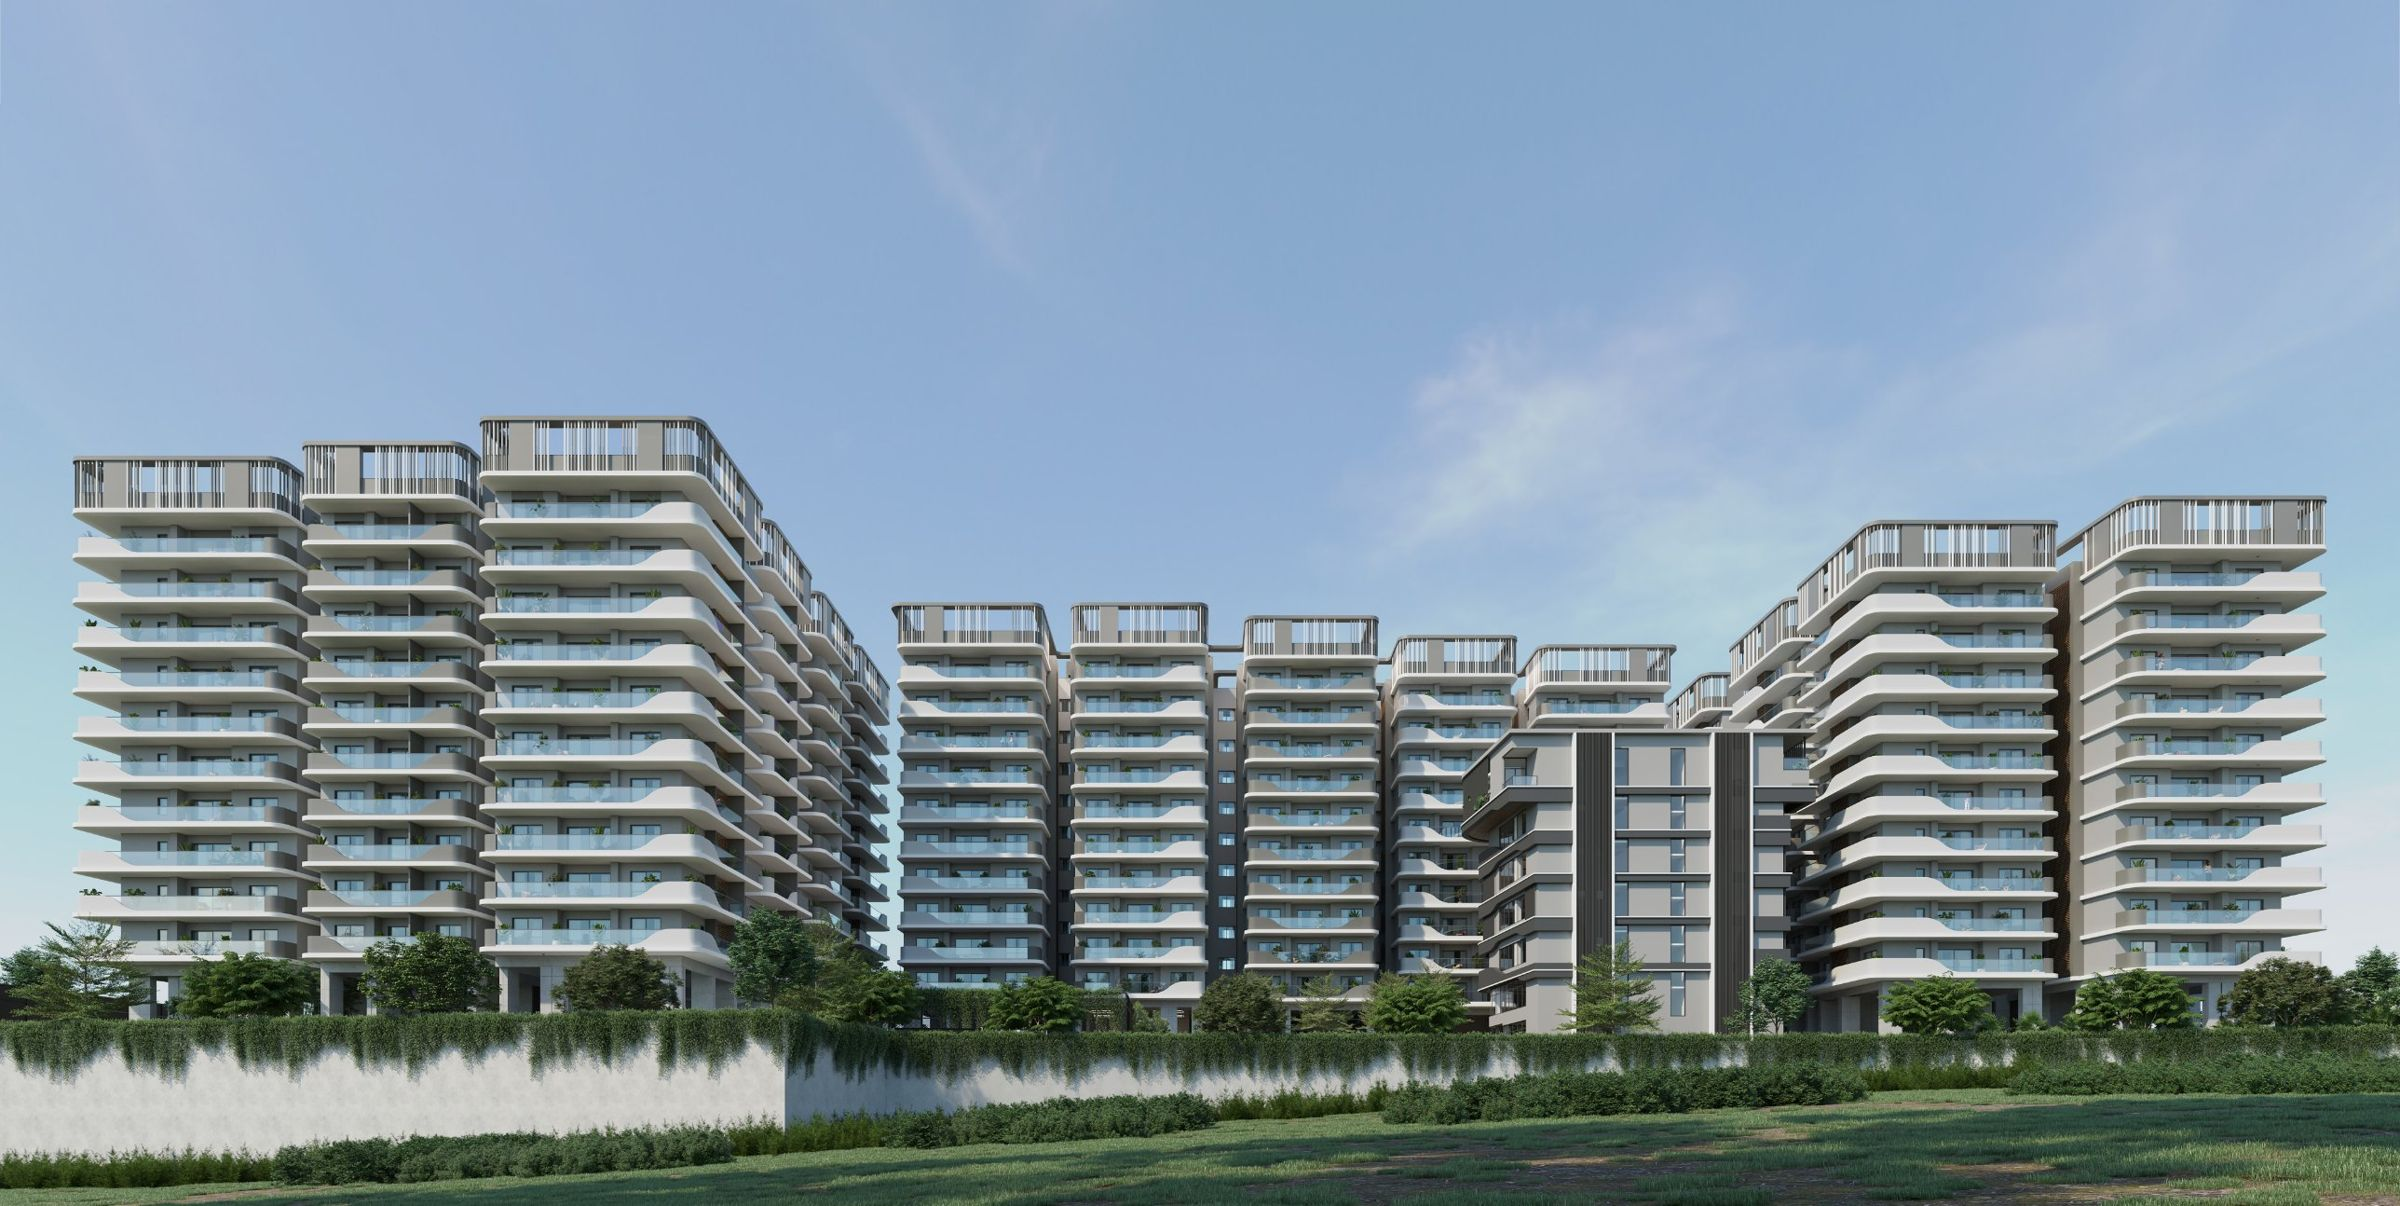
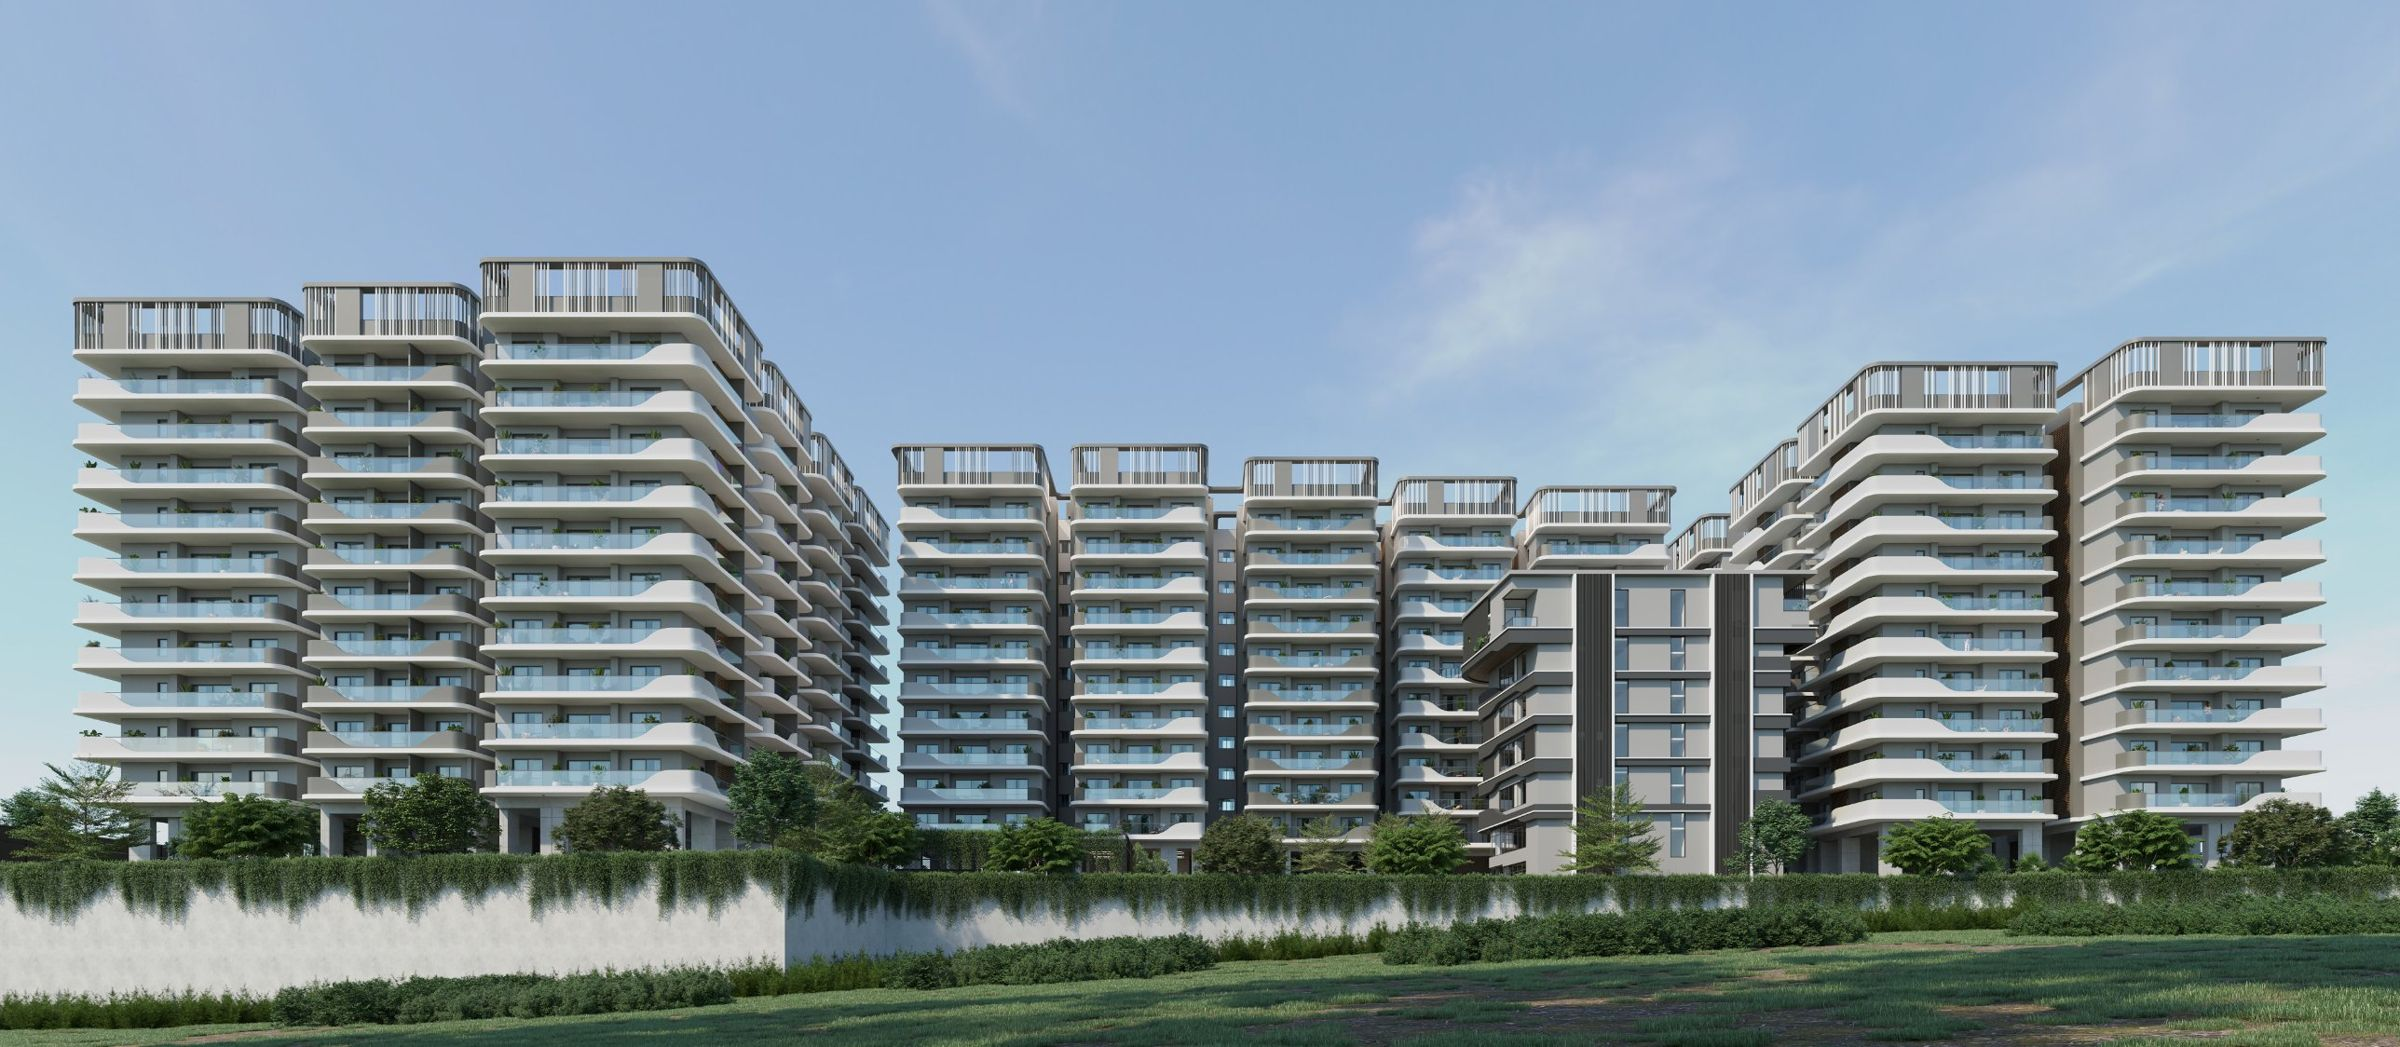
Scroll-driven day-to-night hero with aligned renders, reveal animations, green + sky palette
Claude-Session: https://claude.ai/code/session_01NNj4cqysaypGWC4rhazLur

diff --git a/index.html b/index.html
@@ -341,6 +341,27 @@ footer{padding:40px 0;color:var(--muted);font-size:13px;border-top:1px solid var
 .cbtn{display:inline-flex;align-items:center;gap:8px;padding:13px 22px;border-radius:999px;font-weight:600;font-size:15px;text-decoration:none;border:1px solid rgba(255,255,255,.6);color:#fff;background:rgba(255,255,255,.08);backdrop-filter:blur(6px);cursor:pointer}
 .cbtn.pri{background:#F2F5F3;color:var(--ink);border-color:#F2F5F3}
 .cbtn:hover{transform:translateY(-1px)}
+.lscroll{position:relative;height:260vh}
+.lscroll .lhero{position:sticky;top:64px;height:calc(100vh - 64px);max-height:none}
+.lhero .layer{position:absolute;inset:-4% 0;will-change:transform}
+.lhero .layer img{position:absolute;inset:0;width:100%;height:100%;object-fit:cover;object-position:center 78%;transition:none}
+.lhero .layer img.night{opacity:0}
+.lhero .glow{position:absolute;inset:0;background:radial-gradient(60% 35% at 50% 72%,rgba(255,196,120,.28),rgba(255,196,120,0) 70%);opacity:0;mix-blend-mode:screen;pointer-events:none}
+.lhero .stars{position:absolute;inset:0 0 55% 0;opacity:0;pointer-events:none;background-image:radial-gradient(1.2px 1.2px at 12% 18%,#fff 60%,transparent),radial-gradient(1px 1px at 28% 8%,#fff 60%,transparent),radial-gradient(1.4px 1.4px at 44% 22%,#fff 60%,transparent),radial-gradient(1px 1px at 63% 12%,#fff 60%,transparent),radial-gradient(1.3px 1.3px at 78% 26%,#fff 60%,transparent),radial-gradient(1px 1px at 90% 9%,#fff 60%,transparent),radial-gradient(1px 1px at 6% 34%,#fff 60%,transparent),radial-gradient(1.2px 1.2px at 52% 4%,#fff 60%,transparent),radial-gradient(1px 1px at 35% 36%,#fff 60%,transparent),radial-gradient(1.1px 1.1px at 70% 40%,#fff 60%,transparent)}
+.lhero .eve{position:absolute;left:50%;bottom:13vh;width:min(820px,92%);margin-left:max(-410px,-46%);text-align:center;opacity:0;transform:translateY(30px);pointer-events:none;padding:28px 24px;border-radius:24px;background:radial-gradient(closest-side,rgba(10,20,26,.62),rgba(10,20,26,0))}
+.lhero .eve h2{color:#fff;font-size:clamp(34px,4.6vw,68px);text-shadow:0 2px 30px rgba(0,0,0,.5)}
+.lhero .eve h2 em{color:var(--gold);font-style:italic}
+.lhero .eve p{margin:12px auto 0;color:#E6EEEA;font-size:18px;max-width:560px}
+.tclock{position:absolute;left:32px;bottom:28px;z-index:3;display:flex;align-items:center;gap:10px;background:rgba(15,28,23,.45);backdrop-filter:blur(8px);border:1px solid rgba(255,255,255,.25);border-radius:999px;padding:7px 16px 7px 8px;color:#fff;font-size:14px;font-weight:600;font-variant-numeric:tabular-nums}
+.tclock .orb{width:24px;height:24px;border-radius:50%;background:#FFD27A;box-shadow:0 0 12px #FFD27A;position:relative;overflow:hidden}
+.tclock .orb i{position:absolute;inset:0;border-radius:50%;background:#1C2B28;transform:translateX(100%)}
+.shint{position:absolute;left:50%;bottom:28px;transform:translateX(-50%);color:#fff;font-size:12px;letter-spacing:2px;text-transform:uppercase;display:flex;flex-direction:column;align-items:center;gap:6px;opacity:.9;pointer-events:none}
+.shint i{width:2px;height:28px;background:linear-gradient(#fff,transparent);animation:sh 1.6s ease-in-out infinite}
+@keyframes sh{0%{transform:scaleY(0);transform-origin:top}50%{transform:scaleY(1);transform-origin:top}51%{transform-origin:bottom}100%{transform:scaleY(0);transform-origin:bottom}}
+.rv{opacity:0;transform:translateY(36px);transition:opacity .9s cubic-bezier(.2,.7,.2,1),transform .9s cubic-bezier(.2,.7,.2,1)}
+.rv.in{opacity:1;transform:none}
+@media (prefers-reduced-motion:reduce){.lscroll{height:auto}.lscroll .lhero{position:relative}.rv{opacity:1;transform:none;transition:none}.shint i{animation:none}}
+@media (max-width:620px){.lscroll{height:200vh}.tclock{left:16px;bottom:16px}.shint{display:none}}
 .dn{position:absolute;right:32px;bottom:28px;z-index:3;display:flex;background:rgba(15,28,23,.45);backdrop-filter:blur(8px);border-radius:999px;padding:4px;border:1px solid rgba(255,255,255,.25)}
 .dn button{border:none;background:none;color:#E6EEEA;padding:7px 16px;border-radius:999px;font-size:13px;font-weight:600}
 .dn button.on{background:#F2F5F3;color:var(--ink)}
@@ -911,44 +932,66 @@ function keyRoute(k){const m=k.match(/^[tmr]-t(\d{4})-(\d)$/);if(m)return `#f${m
 /* ---------- landing ---------- */
 let LF='all';
 function landStyles(){let L=[];D.sizes.forEach(z=>z.styles.forEach(t=>L.push({z,t})));if(LF!=='all')L=L.filter(o=>o.z.s===LF);
-  return L.map(({z,t})=>`<a class="lst" href="#f${z.s}-s${t.n}"><img loading="lazy" src="${im(t.hero)}" alt="${esc(t.name)}"><span class="bd ${t.exist?'ex':''}">${t.exist?'Existing':'New theme'}</span><div class="ov"><small>${z.lab} sq ft · Type-${t.n} · ${t.facing}</small><b>${esc(t.name)}</b><div class="pp">${t.pal.map(p=>`<i style="background:${p[1]}"></i>`).join('')}</div></div></a>`).join('')}
+  return L.map(({z,t},i)=>`<a class="lst rv" style="transition-delay:${(i%4)*.07}s" href="#f${z.s}-s${t.n}"><img loading="lazy" src="${im(t.hero)}" alt="${esc(t.name)}"><span class="bd ${t.exist?'ex':''}">${t.exist?'Existing':'New theme'}</span><div class="ov"><small>${z.lab} sq ft · Type-${t.n} · ${t.facing}</small><b>${esc(t.name)}</b><div class="pp">${t.pal.map(p=>`<i style="background:${p[1]}"></i>`).join('')}</div></div></a>`).join('')}
 function vLanding(){
   const all=progress();
-  return `<section class="lhero" id="lhero"><img class="day" src="${im('hero/day')}" alt="BREEZE in the Courtyard, day view"><img class="night" src="${im('hero/night')}" alt="BREEZE in the Courtyard, night view"><div class="shade"></div>
+  return `<div class="lscroll" id="lscroll"><section class="lhero" id="lhero"><div class="layer" id="hlayer"><img class="day" src="${im('hero/day')}" alt="BREEZE in the Courtyard, day view"><img class="night" id="hnight" src="${im('hero/night')}" alt="BREEZE in the Courtyard, night view"></div><div class="stars" id="hstars"></div><div class="glow" id="hglow"></div><div class="shade" id="hshade"></div>
+   <div class="tclock"><span class="orb"><i id="horb"></i></span><span id="htime">10:30 AM</span></div>
+   <div class="shint" id="hhint">Scroll · day to night<i></i></div>
+   <div class="eve" id="heve"><div class="eyebrow">Dusk at BREEZE</div><h2>Every home <em>lights up.</em></h2><p>Sixteen interiors, each with its own glow behind the terraces. Keep scrolling to choose one.</p></div>
    <div class="dn"><button class="on" data-dn="day">Day</button><button data-dn="night">Night</button></div>
    <div class="wrap in"><div class="eyebrow">BREEZE in the Courtyard · Interior brief for 3D visualisation</div>
     <h1>16 types. <em>16 moods.</em></h1>
     <p>Three towers, 29 flats on every floor, four sizes. Each unit type gets its own interior theme, mood board, material palette and room-by-room brief.</p>
-    <div class="cta"><a class="cbtn pri" href="#styles-grid" data-jumpid="lstyles">Explore the 16 styles ↓</a><button class="cbtn" data-present="cover">▶ Present</button><a class="cbtn" href="#tracker">Render tracker</a></div></div></section>
-  <div class="wrap lstats"><div><b>3</b><span>Towers</span></div><div><b>29</b><span>Flats per floor</span></div><div><b>4</b><span>Flat sizes</span></div><div><b>16</b><span>Interior themes</span></div><div><b data-live="pct">${all.p}%</b><span><span data-live="done">${all.d}</span>/${all.n} renders approved</span></div></div>
+    <div class="cta"><a class="cbtn pri" href="#styles-grid" data-jumpid="lstyles">Explore the 16 styles ↓</a><button class="cbtn" data-present="cover">▶ Present</button><a class="cbtn" href="#tracker">Render tracker</a></div></div></section></div>
+  <div class="wrap lstats rv"><div><b>3</b><span>Towers</span></div><div><b>29</b><span>Flats per floor</span></div><div><b>4</b><span>Flat sizes</span></div><div><b>16</b><span>Interior themes</span></div><div><b data-live="pct">${all.p}%</b><span><span data-live="done">${all.d}</span>/${all.n} renders approved</span></div></div>
   <section class="lsec"><div class="wrap lintro">
-    <div><div class="eyebrow">The project</div><h2 style="margin:10px 0 18px">Calm white terraces,<br>warm lit interiors.</h2><p>Flowing white balcony bands and glass rails define BREEZE from the outside. Inside, every flat type gets a distinct mood — from Japandi calm to velvet jewel tones — so the 3D renders show buyers 16 genuinely different homes.</p><p style="font-size:15px;color:var(--muted);margin-top:16px">Drag the image to compare day and night.</p></div>
-    <div class="cmpw" id="cmpw"><img src="${im('hero/day')}" alt="Day"><img class="nt" src="${im('hero/night')}" alt="Night"><span class="lb" style="left:14px">Day</span><span class="lb" style="right:14px">Night</span><div class="hd"><i>⇆</i></div></div>
+    <div class="rv"><div class="eyebrow">The project</div><h2 style="margin:10px 0 18px">Calm white terraces,<br>warm lit interiors.</h2><p>Flowing white balcony bands and glass rails define BREEZE from the outside. Inside, every flat type gets a distinct mood — from Japandi calm to velvet jewel tones — so the 3D renders show buyers 16 genuinely different homes.</p><p style="font-size:15px;color:var(--muted);margin-top:16px">Drag the image to compare day and night.</p></div>
+    <div class="cmpw rv" id="cmpw"><img src="${im('hero/day')}" alt="Day"><img class="nt" src="${im('hero/night')}" alt="Night"><span class="lb" style="left:14px">Day</span><span class="lb" style="right:14px">Night</span><div class="hd"><i>⇆</i></div></div>
   </div></section>
   <section class="lsec"><div class="wrap"><div class="lhead"><div><div class="eyebrow">Choose a flat</div><h2>Four flat sizes</h2></div><a class="btn" href="#f1695" style="text-decoration:none">Start with 1,695 sq ft →</a></div>
-   <div class="lsizes">${D.sizes.map(z=>{const p=progress(t=>t.s===z.s);return `<a class="lsize" href="#f${z.s}"><div class="pl"><img loading="lazy" src="${im(z.styles[0].pimg)}" alt="${z.lab} sq ft plan"></div><div class="tx"><div class="n">${z.lab}<small>sq ft</small></div><div class="ts">${z.styles.length} unit types · ${X.wings.filter(w=>w.s===z.s).length} flats per floor<br>${z.styles.map(t=>esc(t.name)).join(' · ')}</div><div class="prog" style="margin-top:6px"><i style="width:${p.p}%"></i></div><div class="ts">${p.d}/${p.n} renders approved</div></div></a>`}).join('')}</div></div></section>
+   <div class="lsizes">${D.sizes.map((z,zi)=>{const p=progress(t=>t.s===z.s);return `<a class="lsize rv" style="transition-delay:${zi*.08}s" href="#f${z.s}"><div class="pl"><img loading="lazy" src="${im(z.styles[0].pimg)}" alt="${z.lab} sq ft plan"></div><div class="tx"><div class="n">${z.lab}<small>sq ft</small></div><div class="ts">${z.styles.length} unit types · ${X.wings.filter(w=>w.s===z.s).length} flats per floor<br>${z.styles.map(t=>esc(t.name)).join(' · ')}</div><div class="prog" style="margin-top:6px"><i style="width:${p.p}%"></i></div><div class="ts">${p.d}/${p.n} renders approved</div></div></a>`}).join('')}</div></div></section>
   <section class="lsec" id="lstyles"><div class="wrap"><div class="lhead"><div><div class="eyebrow">Interior themes</div><h2>16 unit types, 16 styles</h2></div>
    <div class="lfilter"><button data-lf="all" class="${LF==='all'?'on':''}">All</button>${D.sizes.map(z=>`<button data-lf="${z.s}" class="${LF===z.s?'on':''}">${z.lab}</button>`).join('')}</div></div>
    <div class="lstyles" id="lstylesg">${landStyles()}</div></div></section>
   <section class="lsec"><div class="wrap"><div class="lhead"><div><div class="eyebrow">Site · top view</div><h2>Find a flat on the site</h2></div></div>${mapHTML()}</div></section>
   <section class="lsec" style="border-bottom:none"><div class="wrap">
-   <div class="steps" style="margin-bottom:56px">
+   <div class="steps rv" style="margin-bottom:56px">
     <div class="step"><b>01</b><h3>Pick a type</h3><p>Open a flat size, then the unit type you are rendering — each has its own theme.</p></div>
     <div class="step"><b>02</b><h3>Model to the brief</h3><p>Mood board, materials, lighting and a reference photo for every room are on the type page.</p></div>
     <div class="step"><b>03</b><h3>Update your status</h3><p>Set each room's status as you work. Everyone sees it live in the Tracker.</p></div></div>
-   <div class="lcta"><div><div class="eyebrow" style="color:var(--gold)">For the 3D team</div><h2>Ready to start?</h2><p>Walk through the full brief as a presentation, or check the rendering standards and file names first.</p></div>
+   <div class="lcta rv"><div><div class="eyebrow" style="color:var(--gold)">For the 3D team</div><h2>Ready to start?</h2><p>Walk through the full brief as a presentation, or check the rendering standards and file names first.</p></div>
     <div class="cta"><button class="cbtn pri" data-present="cover" style="justify-content:center">▶ Present the full brief</button><a class="cbtn" href="#standards" style="justify-content:center">Rendering standards</a><a class="cbtn" href="#tracker" style="justify-content:center">Open the render tracker</a></div></div>
   </div></section>`;
 }
+const sm=(a,b,x)=>{x=Math.max(0,Math.min(1,(x-a)/(b-a)));return x*x*(3-2*x)};
+function heroTick(){
+  const w=$('#lscroll');if(!w)return;
+  const r=w.getBoundingClientRect();const tot=w.offsetHeight-(innerHeight-64);const p=Math.max(0,Math.min(1,(64-r.top)/tot));
+  const n=sm(.12,.72,p);
+  $('#hnight').style.opacity=n;
+  $('#hlayer').style.transform=`translateY(${p*-2}%) scale(${1.06-p*.06})`;
+  $('#hglow').style.opacity=sm(.45,.9,p);$('#hstars').style.opacity=sm(.55,.95,p)*.8;
+  const inn=$('#lhero .in');inn.style.opacity=1-sm(.02,.3,p);inn.style.transform=`translateY(${-p*120}px)`;
+  const ev=$('#heve');ev.style.opacity=sm(.6,.85,p)*(1-sm(.96,1,p)*.0);ev.style.transform=`translateY(${(1-sm(.6,.85,p))*30}px)`;
+  $('#hhint').style.opacity=1-sm(0,.08,p);
+  const min=10.5*60+Math.round(n*9*60);const hh=Math.floor(min/60),mm=min%60;$('#htime').textContent=`${((hh+11)%12)+1}:${String(mm-mm%5).padStart(2,'0')} ${hh>=12?'PM':'AM'}`;
+  $('#horb').style.transform=`translateX(${(1-n)*100}%)`;
+  document.querySelectorAll('[data-dn]').forEach(b=>b.classList.toggle('on',(b.dataset.dn==='night')===(n>.5)));
+}
+let heroRaf=0;window.addEventListener('scroll',()=>{if(!heroRaf)heroRaf=requestAnimationFrame(()=>{heroRaf=0;heroTick()})},{passive:true});window.addEventListener('resize',heroTick);
 function initLanding(){
   const h=$('#lhero');if(!h)return;
+  heroTick();
+  const io=new IntersectionObserver(es=>es.forEach(e=>{if(e.isIntersecting){e.target.classList.add('in');io.unobserve(e.target)}}),{rootMargin:'0px 0px -8% 0px'});
+  document.querySelectorAll('.rv').forEach(el=>io.observe(el));
   const c=$('#cmpw');if(c){const nt=c.querySelector('.nt'),hd=c.querySelector('.hd');let drag=false;
     const set=x=>{const r=c.getBoundingClientRect();const p=Math.max(0,Math.min(100,(x-r.left)/r.width*100));nt.style.clipPath=`inset(0 0 0 ${p}%)`;hd.style.left=p+'%'};
     c.addEventListener('pointerdown',e=>{drag=true;c.setPointerCapture(e.pointerId);set(e.clientX)});c.addEventListener('pointermove',e=>{if(drag)set(e.clientX)});c.addEventListener('pointerup',()=>drag=false)}
 }
 document.addEventListener('click',e=>{
-  const d=e.target.closest('[data-dn]');if(d){$('#lhero').classList.toggle('isnight',d.dataset.dn==='night');document.querySelectorAll('[data-dn]').forEach(b=>b.classList.toggle('on',b===d));return}
-  const f=e.target.closest('[data-lf]');if(f){LF=f.dataset.lf;document.querySelectorAll('[data-lf]').forEach(b=>b.classList.toggle('on',b===f));$('#lstylesg').innerHTML=landStyles();return}
+  const d=e.target.closest('[data-dn]');if(d){const w=$('#lscroll');const tot=w.offsetHeight-(innerHeight-64);const top=w.getBoundingClientRect().top+scrollY-64;window.scrollTo({top:top+(d.dataset.dn==='night'?tot*.8:0),behavior:'smooth'});return}
+  const f=e.target.closest('[data-lf]');if(f){LF=f.dataset.lf;document.querySelectorAll('[data-lf]').forEach(b=>b.classList.toggle('on',b===f));$('#lstylesg').innerHTML=landStyles();document.querySelectorAll('#lstylesg .rv').forEach(x=>x.classList.add('in'));return}
   const j=e.target.closest('[data-jumpid]');if(j){e.preventDefault();const t=document.getElementById(j.dataset.jumpid);if(t)window.scrollTo({top:t.getBoundingClientRect().top+scrollY-64,behavior:'smooth'})}
 });
 
